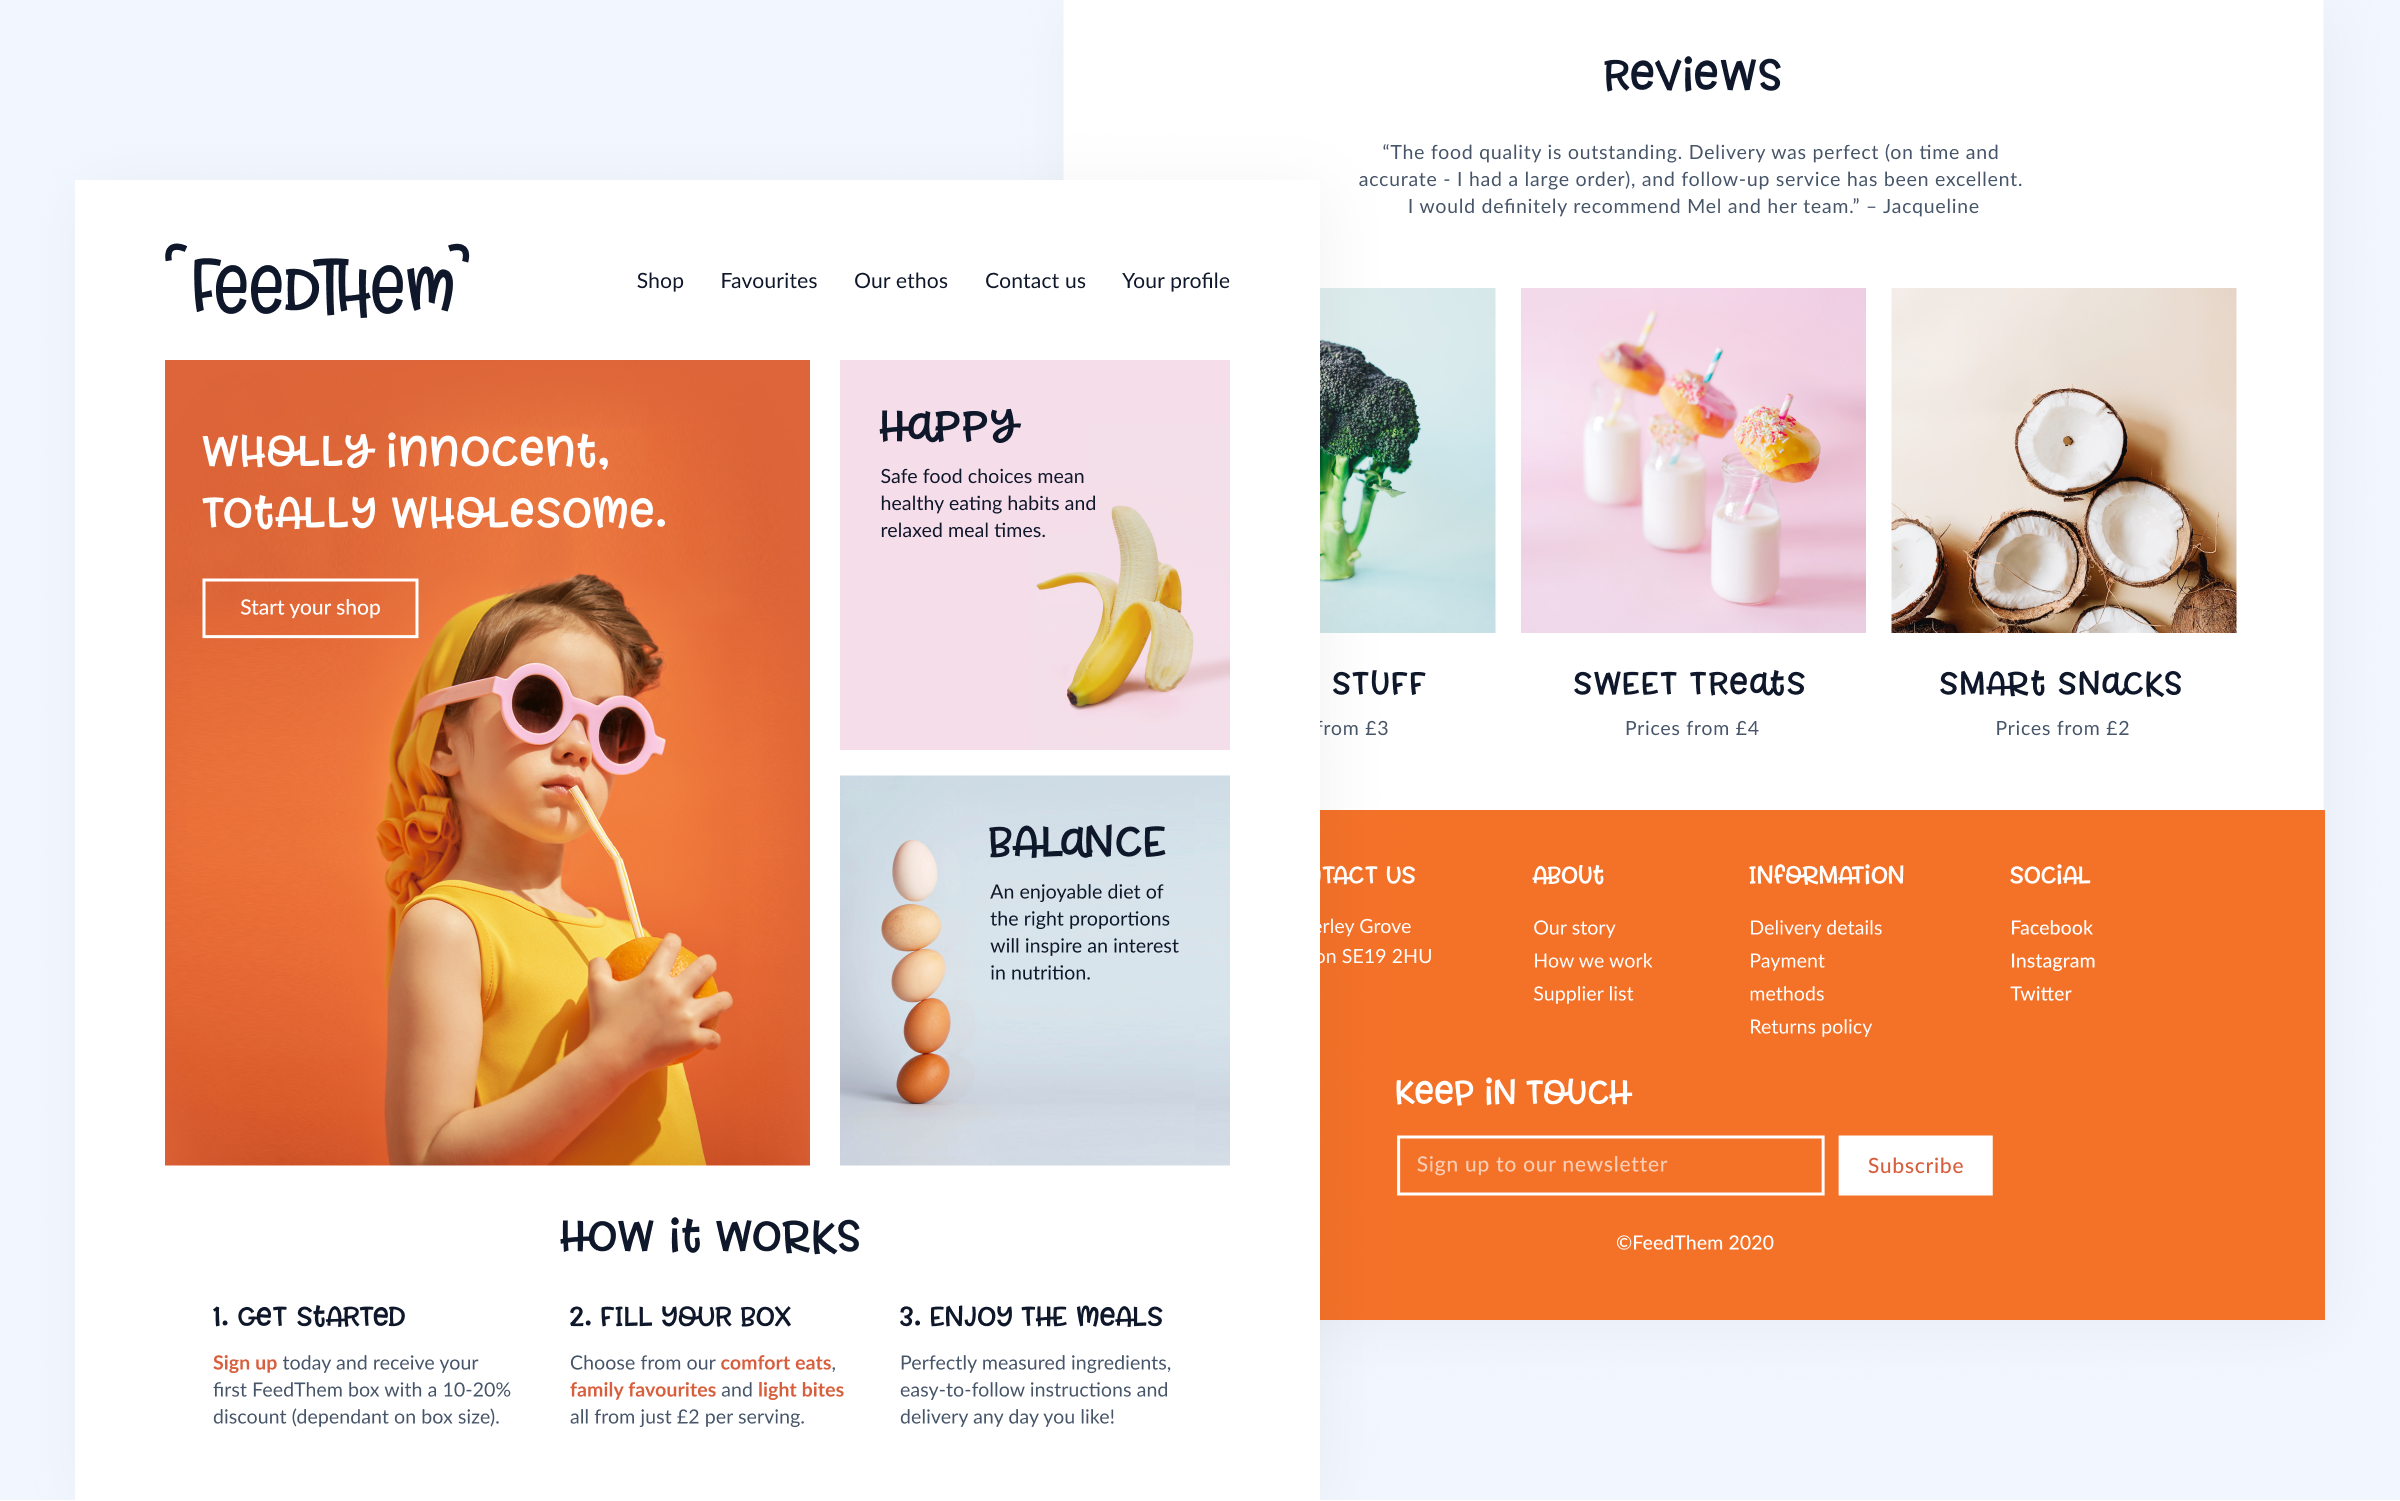
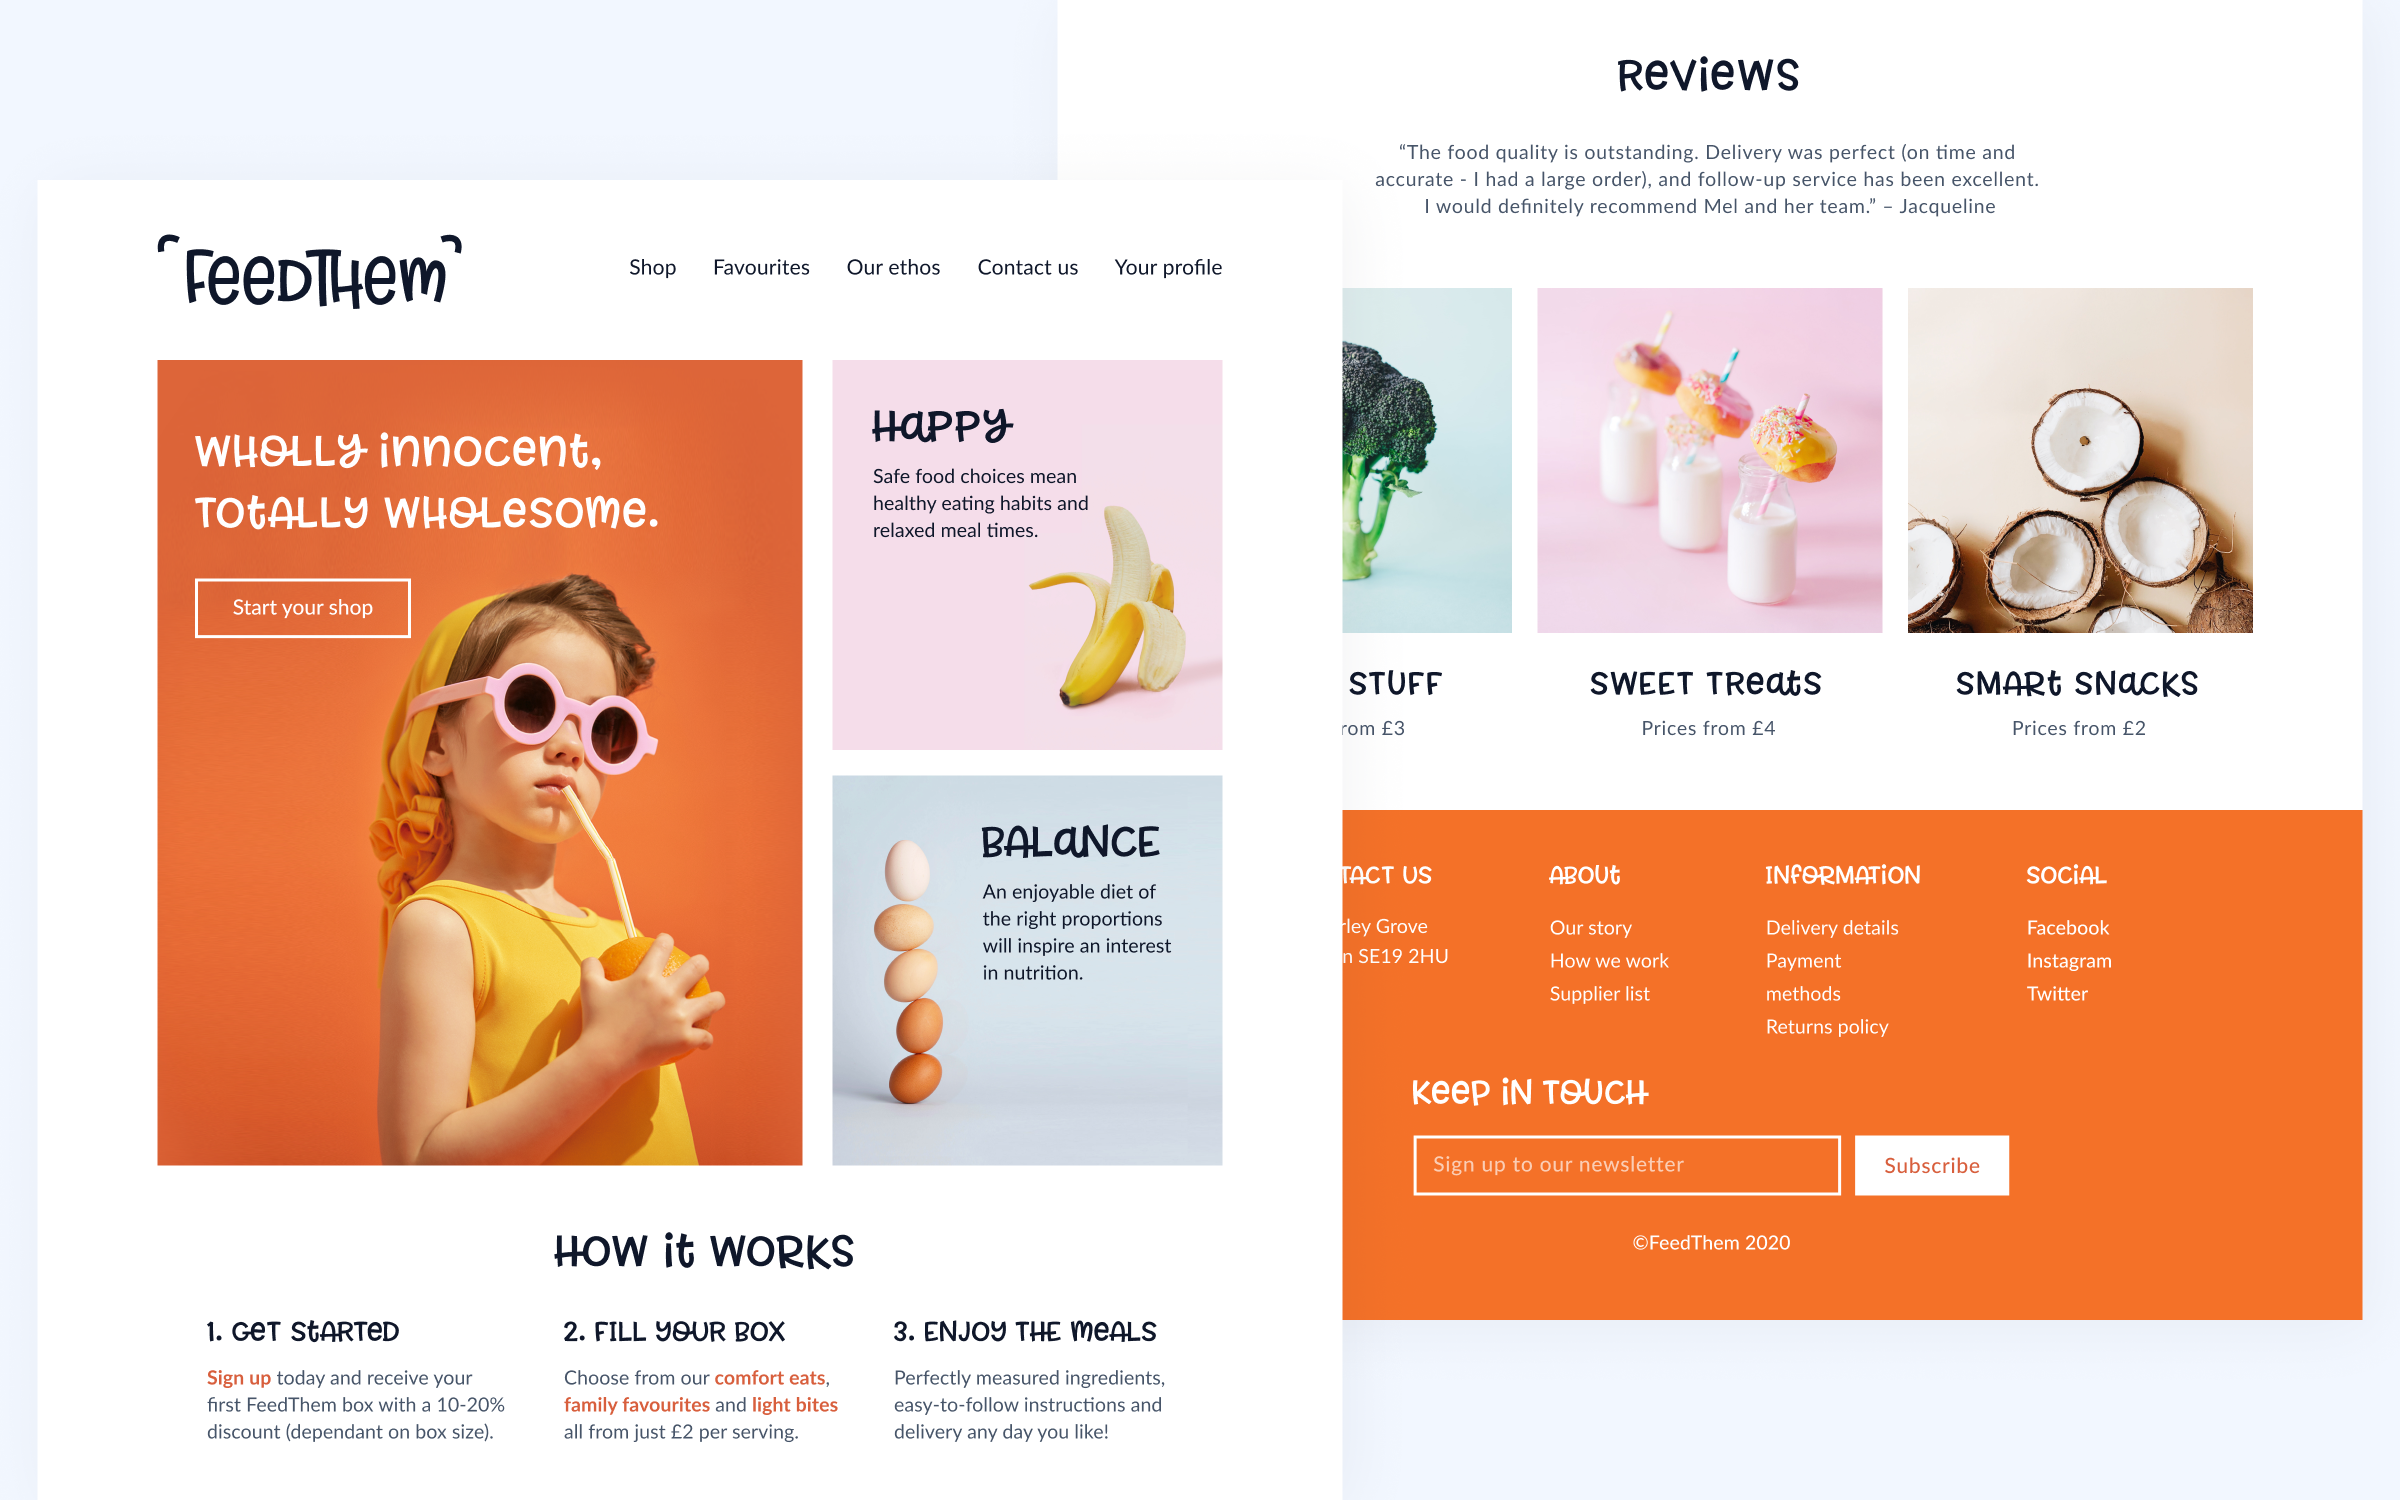
Testing image fix

diff --git a/posts/6-challenge-your-limits.html b/posts/6-challenge-your-limits.html
@@ -56,24 +56,16 @@
 
                     <div class="caption">
                         <img src="/assets/FeedThem logo.png" alt="" />
-                        <p>
-                            Logotype design using
-                            <a
-                                href="https://www.fontspring.com/fonts/missy-meyer/allspice"
-                                target="_blank"
-                                >Allspice by Missy Meyer</a
-                            >.
-                        </p>
+                        <p>Logotype design using<a href="https://www.fontspring.com/fonts/missy-meyer/allspice"target="_blank"> Allspice by Missy Meyer</a>.</p>
                     </div>
                 </div>
 
                 <div class="post--body">
                     <div class="caption">
-                        <img
-                            class="fullwidth"
+                        <img class="fullwidth"
                             src="/assets/FeedThem desktop.png"
                             alt="" />
-                        <p>Caption.</p>
+                        <p>High-fidelty desktop mock-up suggesting photographic style.</p>
                     </div>
                 </div>
 

diff --git a/css/shes-got-style.css b/css/shes-got-style.css
@@ -4,7 +4,7 @@
 :root {
     --site-width: 1200px;
     --post-text-width: 760px;
-    --post-image-max-width: 1100px;
+    --post-image-max-width: 600px;
 
     /* Logo */
     --logo-size: 64px;
